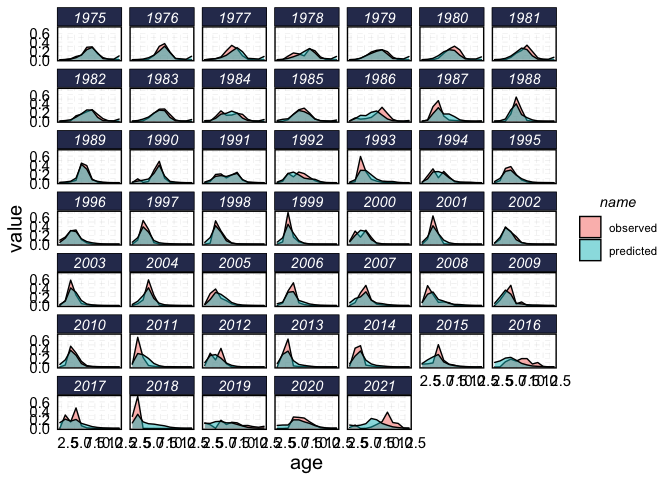
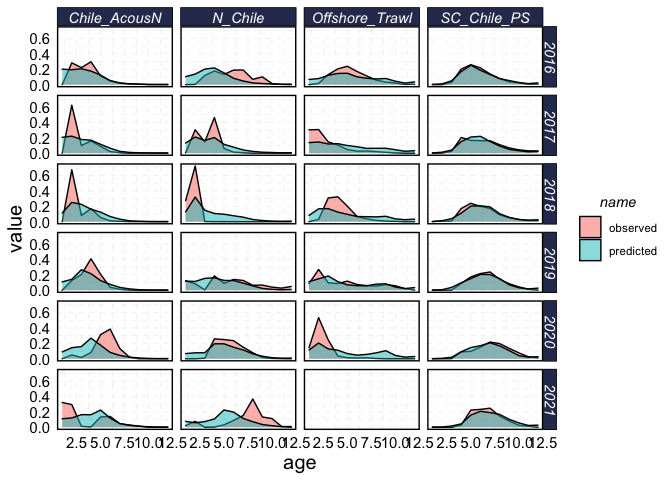
adding in fleets to age data

diff --git a/README.md b/README.md
@@ -135,11 +135,11 @@ age_fits <- get_age_fits(old_vs_new_mods)
 
 
 age_fits %>% 
-  filter(model == "h2_0.00", stock == "Stock_1", source == "fsh_1") %>% 
+  filter(model == "h2_0.00", stock == "Stock_1", year > 2015) %>% 
   pivot_longer(predicted:observed) %>% 
   ggplot() + 
   geom_density(aes(age, value, fill = name),stat = "identity", alpha = 0.5) + 
-  facet_wrap(~year)
+  facet_grid(year~fleet_name)
 ```
 
 <img src="man/figures/README-unnamed-chunk-2-9.png" width="100%" />
@@ -174,14 +174,16 @@ fishing_mortality %>%
 tidy_jjm <- tidy_JJM(old_vs_new_mods)
 str(tidy_jjm)
 #> List of 8
-#>  $ age_fits         : tibble [3,816 × 7] (S3: tbl_df/tbl/data.frame)
-#>   ..$ model    : chr [1:3816] "h2_0.00" "h2_0.00" "h2_0.00" "h2_0.00" ...
-#>   ..$ stock    : chr [1:3816] "Stock_1" "Stock_1" "Stock_1" "Stock_1" ...
-#>   ..$ source   : chr [1:3816] "fsh_1" "fsh_1" "fsh_1" "fsh_1" ...
-#>   ..$ year     : num [1:3816] 1975 1975 1975 1975 1975 ...
-#>   ..$ age      : num [1:3816] 1 2 3 4 5 6 7 8 9 10 ...
-#>   ..$ predicted: num [1:3816] 0.00279 0.00587 0.01635 0.04886 0.11046 ...
-#>   ..$ observed : num [1:3816] 0 0.00697 0.02357 0.07554 0.1038 ...
+#>  $ age_fits         : tibble [3,816 × 9] (S3: tbl_df/tbl/data.frame)
+#>   ..$ model       : chr [1:3816] "h2_0.00" "h2_0.00" "h2_0.00" "h2_0.00" ...
+#>   ..$ stock       : chr [1:3816] "Stock_1" "Stock_1" "Stock_1" "Stock_1" ...
+#>   ..$ fleet_type  : chr [1:3816] "fsh" "fsh" "fsh" "fsh" ...
+#>   ..$ fleet_number: int [1:3816] 1 1 1 1 1 1 1 1 1 1 ...
+#>   ..$ year        : num [1:3816] 1975 1975 1975 1975 1975 ...
+#>   ..$ age         : num [1:3816] 1 2 3 4 5 6 7 8 9 10 ...
+#>   ..$ predicted   : num [1:3816] 0.00279 0.00587 0.01635 0.04886 0.11046 ...
+#>   ..$ observed    : num [1:3816] 0 0.00697 0.02357 0.07554 0.1038 ...
+#>   ..$ fleet_name  : chr [1:3816] "N_Chile" "N_Chile" "N_Chile" "N_Chile" ...
 #>  $ catchabilities   :'data.frame':   320 obs. of  8 variables:
 #>   ..$ model       : chr [1:320] "h2_0.00" "h2_0.00" "h2_0.00" "h2_0.00" ...
 #>   ..$ stock       : chr [1:320] "Stock_1" "Stock_1" "Stock_1" "Stock_1" ...
